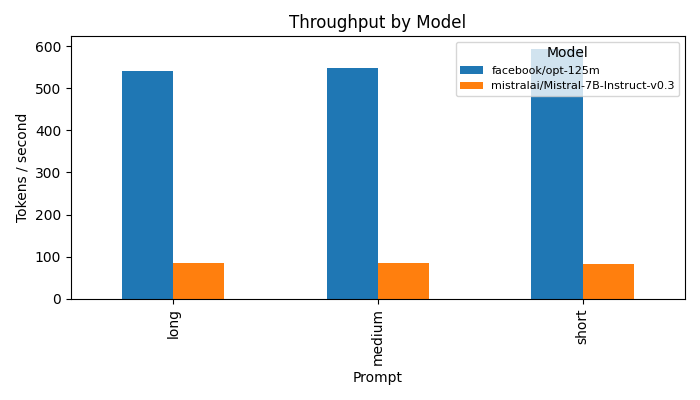
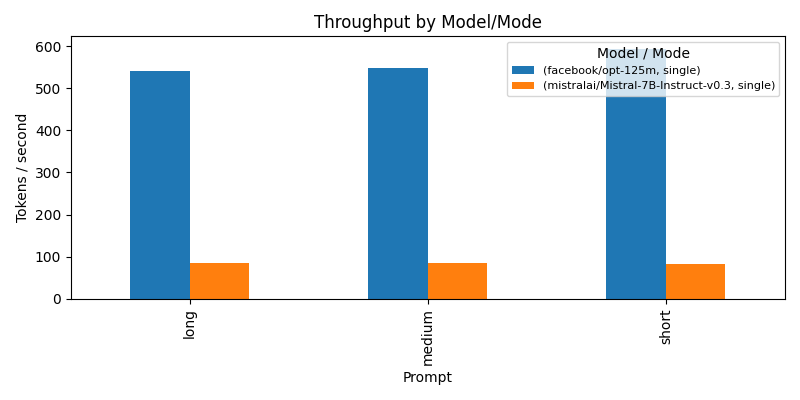
Add baseline/cachegen modes and regenerate live plots

diff --git a/run_benchmarks.py b/run_benchmarks.py
@@ -66,6 +66,7 @@ class ModelConfig:
 @dataclass
 class RunResult:
     model: str
+    mode: str
     prompt_name: str
     prompt_len_tokens: int
     output_tokens: int
@@ -89,12 +90,13 @@ def parse_model_arg(raw: str) -> ModelConfig:
 async def _bench_single_prompt(
     engine: AsyncLLMEngine,
     model_label: str,
+    mode_label: str,
     prompt_name: str,
     prompt: str,
     sampling_params: SamplingParams,
 ) -> RunResult:
     submitted_at = time.perf_counter()
-    request_id = f"{model_label}-{prompt_name}-{int(submitted_at * 1e6)}"
+    request_id = f"{model_label}-{mode_label}-{prompt_name}-{int(submitted_at * 1e6)}"
 
     # Use streaming generate(); adapt to signature differences across vLLM versions.
     first_token_at: Optional[float] = None
@@ -132,6 +134,7 @@ async def _bench_single_prompt(
 
     return RunResult(
         model=model_label,
+        mode=mode_label,
         prompt_name=prompt_name,
         prompt_len_tokens=prompt_tokens,
         output_tokens=generated_tokens,
@@ -146,6 +149,7 @@ async def bench_model(
     sampling_params: SamplingParams,
     tp_size: int,
     quantization: Optional[str],
+    modes: list[str],
 ) -> List[RunResult]:
     args = AsyncEngineArgs(
         model=cfg.model,
@@ -161,15 +165,17 @@ async def bench_model(
     results: List[RunResult] = []
 
     try:
-        for name, prompt in PROMPTS.items():
-            result = await _bench_single_prompt(
-                engine=engine,
-                model_label=cfg.model,
-                prompt_name=name,
-                prompt=prompt,
-                sampling_params=sampling_params,
-            )
-            results.append(result)
+        for mode in modes:
+            for name, prompt in PROMPTS.items():
+                result = await _bench_single_prompt(
+                    engine=engine,
+                    model_label=cfg.model,
+                    mode_label=mode,
+                    prompt_name=name,
+                    prompt=prompt,
+                    sampling_params=sampling_params,
+                )
+                results.append(result)
     finally:
         # vLLM >=0.4 has async shutdown; older releases expose sync.
         shutdown = getattr(engine, "shutdown", None)
@@ -196,6 +202,7 @@ async def main_async(args: argparse.Namespace) -> None:
             sampling_params,
             tp_size=args.tensor_parallel_size,
             quantization=args.quantization,
+            modes=args.modes,
         )
         all_results.extend(model_results)
 
@@ -212,6 +219,7 @@ async def main_async(args: argparse.Namespace) -> None:
         "models": [asdict(m) for m in args.models],
         "tensor_parallel_size": args.tensor_parallel_size,
         "quantization": args.quantization,
+        "modes": args.modes,
         "runs": [asdict(r) for r in all_results],
     }
 
@@ -256,6 +264,12 @@ def build_arg_parser() -> argparse.ArgumentParser:
         type=str,
         default=None,
         help="Optional vLLM quantization mode (e.g., awq, gptq, fp8) with a compatible checkpoint.",
+    )
+    parser.add_argument(
+        "--modes",
+        nargs="+",
+        default=["baseline", "cachegen"],
+        help="Benchmark modes to run (labels only; cachegen hook not yet wired into vLLM).",
     )
     return parser
 

diff --git a/visualize_results.py b/visualize_results.py
@@ -1,10 +1,9 @@
 """Utility to visualize benchmark results.
 
-Supports both schemas:
-- Live vLLM harness (run_benchmarks.py): columns include ``model``, ``ttft_seconds``,
-  ``tokens_per_second``.
-- Legacy simulated harness: columns include ``mode`` (baseline/cachegen) and
-  ``bandwidth_mbps``.
+Schemas:
+- Live vLLM (run_benchmarks.py): columns include ``model``, ``mode`` (e.g., baseline/cachegen),
+  ``ttft_seconds``, ``tokens_per_second``.
+- Legacy simulated (removed artifacts): columns include ``mode`` and ``bandwidth_mbps``.
 """
 from __future__ import annotations
 
@@ -17,16 +16,19 @@ import pandas as pd
 
 def load_results(path: Path) -> pd.DataFrame:
     data = json.loads(path.read_text())
-    return pd.DataFrame(data["runs"])
+    df = pd.DataFrame(data["runs"])
+    if "mode" not in df.columns:
+        df["mode"] = "single"
+    return df
 
 
 def plot_ttft_live(df: pd.DataFrame, out_dir: Path) -> None:
-    pivot = df.pivot(index="prompt_name", columns="model", values="ttft_seconds")
-    ax = pivot.plot(kind="bar", figsize=(7, 4))
+    pivot = df.pivot_table(index="prompt_name", columns=["model", "mode"], values="ttft_seconds")
+    ax = pivot.plot(kind="bar", figsize=(8, 4))
     ax.set_xlabel("Prompt")
     ax.set_ylabel("TTFT (s)")
-    ax.set_title("Time to First Token by Model")
-    ax.legend(title="Model", fontsize=8)
+    ax.set_title("Time to First Token by Model/Mode")
+    ax.legend(title="Model / Mode", fontsize=8)
     fig = ax.get_figure()
     fig.tight_layout()
     out = out_dir / "ttft_by_model.png"
@@ -35,12 +37,12 @@ def plot_ttft_live(df: pd.DataFrame, out_dir: Path) -> None:
 
 
 def plot_throughput_live(df: pd.DataFrame, out_dir: Path) -> None:
-    pivot = df.pivot(index="prompt_name", columns="model", values="tokens_per_second")
-    ax = pivot.plot(kind="bar", figsize=(7, 4))
+    pivot = df.pivot_table(index="prompt_name", columns=["model", "mode"], values="tokens_per_second")
+    ax = pivot.plot(kind="bar", figsize=(8, 4))
     ax.set_xlabel("Prompt")
     ax.set_ylabel("Tokens / second")
-    ax.set_title("Throughput by Model")
-    ax.legend(title="Model", fontsize=8)
+    ax.set_title("Throughput by Model/Mode")
+    ax.legend(title="Model / Mode", fontsize=8)
     fig = ax.get_figure()
     fig.tight_layout()
     out = out_dir / "throughput_by_model.png"
